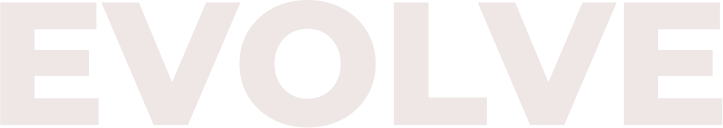
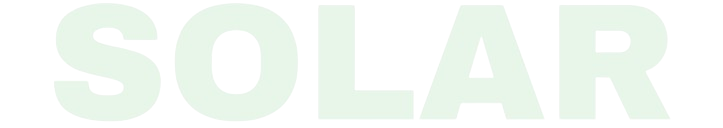
.
Ajustes de imagens.

diff --git a/src/scenes/benefits/index.tsx b/src/scenes/benefits/index.tsx
@@ -4,25 +4,25 @@ import { HomeModernIcon, UserGroupIcon, AcademicCapIcon } from "@heroicons/react
 import { motion } from "framer-motion";
 import { Benefit } from "./Benefit";
 import { ActionButton } from "@/share/ActionButton";
-import BenefitsPageGraphic from "@/assets/BenefitsPageGraphic.png";
+import BenefitsPageGraphic from "@/assets/solar_panel.png";
 
 const benefits: Array<BenefitType> = [
     {
         icon: <HomeModernIcon className="h-6 w-6" />,
-        title: "State of the Art Facilities",
-        description: "Neque adipiscing amet amet enim. Feugiat dolor enim fermentum in a in lectus pellentesque. Ullamcorper et."
+        title: "Economia",
+        description: "Com a produção de energia solar é possível reduzir sua conta de luz mensal."
     },
     {
         icon: <UserGroupIcon className="h-6 w-6" />,
-        title: "100's of Diverse Classes",
+        title: "Valorização",
         description:
-            "Eu ipsum id egestas risus tempus enim semper felis quis. Nec consectetur ac venenatis facilisi est. Eget ac turpis id.",
+            "Com energia solar seu imóvel conquista uma valorização de até 6%.",
     },
     {
         icon: <AcademicCapIcon className="h-6 w-6" />,
-        title: "Expert and Pro Trainers",
+        title: "Rentabilidade",
         description:
-            "Fusce vestibulum aliquam ut cras. Nisl lectus egestas sapien nisl. Lacus at mi sit pellentesque. Congue parturient.",
+            "Excelente investimento com retorno garantido em poucos anos (de 2 a 5 anos).",
     },
 ]
 
@@ -46,7 +46,7 @@ export const Benefits = ({ setSelectedPage }: Props) => {
             >
                 {/* HEADER */}
                 <motion.div
-                    className="md:my-5 md:w-3/5"
+                    className="md:my-5 md:w-5/9"
                     initial="hidden"
                     whileInView="visible"
                     viewport={{ once: true, amount: 0.5 }}
@@ -56,11 +56,9 @@ export const Benefits = ({ setSelectedPage }: Props) => {
                         visible: { opacity: 1, x: 0 },
                     }}
                 >
-                    <HText>MORE THAN JUST GYM.</HText>
-                    <p className="my-5 text-sm">
-                        We provide world class fitness equipment, trainers and classes to
-                        get you to your ultimate fitness goals with ease. We provide true
-                        care into each and every member.
+                    <HText>Vantagens de produzir sua Energia Solar:</HText>
+                    <p className="my-5 text-base">
+                            A economia na conta de luz, a valorização do imóvel, a fácil instalação e o retorno sobre o investimento são alguns exemplos do que os painéis fotovoltaicos podem oferecer. Além disso, a energia renovável proporcionada pela tecnologia contribui para a preservação do meio ambiente.   
                     </p>
                 </motion.div>
 

diff --git a/src/scenes/home/index.tsx b/src/scenes/home/index.tsx
@@ -1,14 +1,15 @@
 import { SelectedPage } from '@/share/types'
 import useMediaQuery from '@/hooks/useMediaQuery';
 import { ActionButton } from '@/share/ActionButton';
-import HomePageText from "@/assets/HomePageText.png";
-import HomePageGraphic from "@/assets/HomePageGraphic.png";
+import HomePageText2 from "@/assets/Solar_Construções.png"
+import HomePageGraphic from "@/assets/Sun energy-amico.png";
 import SponsorRedBull from "@/assets/SponsorRedBull.png";
 import SponsorForbes from "@/assets/SponsorForbes.png";
 import SponsorFortune from "@/assets/SponsorFortune.png";
 
 import AnchorLink from 'react-anchor-link-smooth-scroll';
 import { motion } from 'framer-motion';
+import { HText } from '@/share/HText';
 
 
 type Props = {
@@ -40,7 +41,7 @@ export const Home = ({ setSelectedPage }: Props) => {
                     >
                         <div className='relative'>
                             <div className='before:absolute before:-top-20 before:-left-20 before:z-[-1] md:before:content-evolvetext'>
-                                <img src={HomePageText} alt="home-page-text" />
+                                <img src={HomePageText2} alt="home-page-text top" />
                             </div>
                         </div>
                         <p className="mt-8 text-sm ">
@@ -78,9 +79,12 @@ export const Home = ({ setSelectedPage }: Props) => {
             </motion.div>
             {/* Sponsors */}
             {isAboveMediumScreens && (
-                <div className='h-[150px] w-full bg-primary-100 py-10'>
+                <div className='h-[150px] w-full bg-primary-100 py-5'>
                     <div className='mx-auto w-5/6'>
-                        <div className='flex w-3/5 items-center justify-between gap-8'>
+                        <div className=' items-center justify-between gap-2 ' >
+                            <HText>Financie sua energia solar em até 36X</HText>
+                        </div>
+                        <div className='flex w-3/5 items-center justify-between gap-8 mt-2'>
                             <img src={SponsorRedBull} alt="redbull-sponsor" />
                             <img src={SponsorForbes} alt="Forbes-sponsor" />
                             <img src={SponsorFortune} alt="Fortune-sponsor" />

diff --git a/src/scenes/navbar/index.tsx b/src/scenes/navbar/index.tsx
@@ -33,7 +33,7 @@ const Navbar = ({
                         {/* LEFT SIDE */}
 
                         {isAboveMediumScreens ? (<div className={`${flexBetween} w-full`}>
-                            <div className={`${flexBetween} gap-8 text-sm`}>
+                            <div className={`${flexBetween} gap-8 text-lg`}>
                                 <Link
                                     page="Home"
                                     selectedPage={selectedPage}

diff --git a/src/scenes/navbar/Link.tsx b/src/scenes/navbar/Link.tsx
@@ -16,7 +16,7 @@ const Link = ({
     return (
         <AnchorLink
             className={`${selectedPage === lowerCasePage ? "text-primary-500" : ""} 
-            transition duration-500 hover:text-primary-300
+            transition duration-500 hover:text-secondary-500 
             `}
             href={`#${lowerCasePage}`}
             onClick={()=> setSelectedPage(lowerCasePage)}>

diff --git a/src/scenes/contactUs/index.tsx b/src/scenes/contactUs/index.tsx
@@ -1,7 +1,7 @@
 import { ClassType, SelectedPage } from '@/share/types'
 import { motion } from 'framer-motion';
 import { useForm } from 'react-hook-form';
-import ContactUsPageGraphic from "@/assets/ContactUsPageGraphic.png"
+import ContactUsPageGraphic from "@/assets//Sun energy-bro.png"
 import { HText } from '@/share/HText';
 
 

diff --git a/src/share/HText.tsx b/src/share/HText.tsx
@@ -5,7 +5,7 @@ type Props = {
 }
 export const HText = ({ children }: Props) => {
     return (
-        <h1 className="basis-3/5 font-montserrat text-3xl font-bold">
+        <h1 className="basis-3/5 font-montserrat text-3xl font-bold text-2xl ">
             {children}
         </h1>
     )
